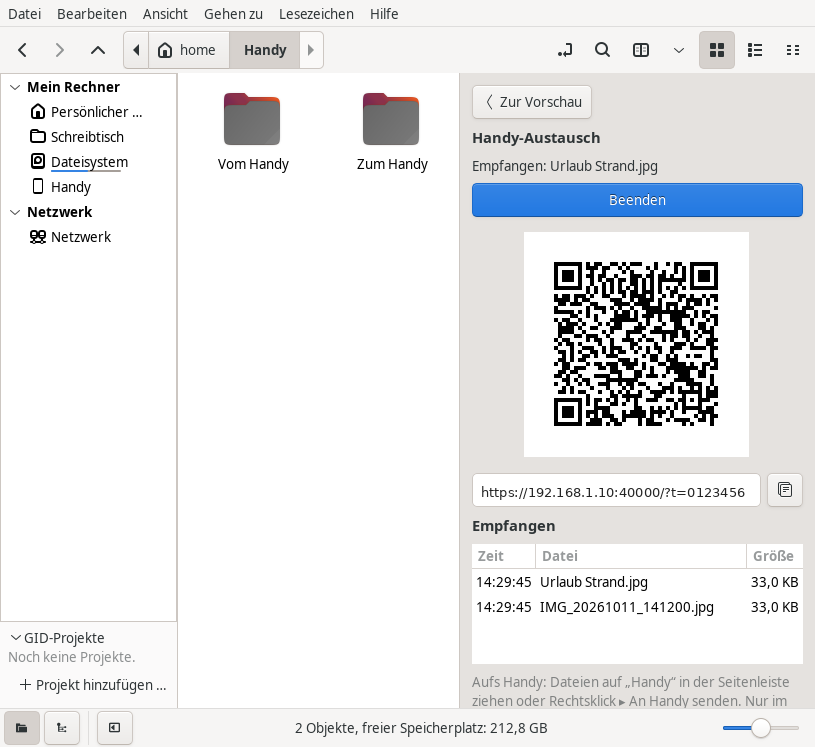
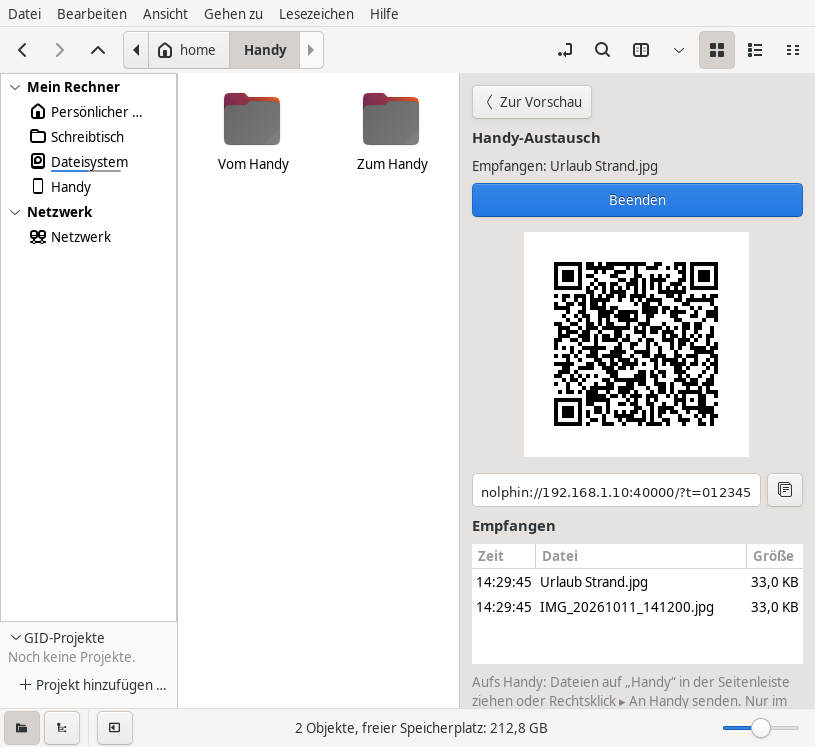
Handy-Austausch: QR-Link als nolphin://, Bild und Tests angepasst

Changed region(s): [[0.6748, 0.3387, 0.8896, 0.585], [0.5828, 0.6466, 0.9202, 0.6774]]

diff --git a/src/nolphin-phone.c b/src/nolphin-phone.c
@@ -496,15 +496,17 @@ on_file_received (const gchar *name, goffset size, gpointer user_data)
 }
 
 /* Verbindungslink, Format Version 2:
- *   https://<Adresse>:<Port>/?t=<Schlüssel, 32 Hex-Zeichen>&v=2&f=<Fingerabdruck, 22 Zeichen base64url>
- * Er steht im QR-Code und im Eingabefeld (siehe docs/handy-austausch-api.md). Der Ablauf (e=) steht nicht
- * mehr im Link: Er würde den QR-Code über die größte darstellbare Größe treiben, und der Server prüft ihn ohnehin. */
+ *   nolphin://<Adresse>:<Port>/?t=<Schlüssel, 32 Hex-Zeichen>&v=2&f=<Fingerabdruck, 22 Zeichen base64url>
+ * Er steht im QR-Code und im Eingabefeld (siehe docs/handy-austausch-api.md). Mit dem Schema nolphin:// öffnet die
+ * Kamera des Handys direkt die App (kein Browser, keine Zertifikatswarnung); die App verbindet sich dann verschlüsselt
+ * über https mit genau dem Zertifikat dieses Fingerabdrucks. Der Ablauf (e=) steht nicht mehr im Link: Er würde den
+ * QR-Code über die größte darstellbare Größe treiben, und der Server prüft ihn ohnehin. */
 static void
 phone_refresh_url (PhonePage *d)
 {
 	gchar *token = nolphin_phone_server_dup_token (d->server);
 	gchar *fp = nolphin_phone_server_dup_fingerprint (d->server);
-	gchar *url = g_strdup_printf ("https://%s:%u/?t=%s&v=2&f=%s", d->address,
+	gchar *url = g_strdup_printf ("nolphin://%s:%u/?t=%s&v=2&f=%s", d->address,
 				      nolphin_phone_server_get_port (d->server), token, fp);
 
 	d->has_qr = nolphin_qr_encode (url, -1, &d->qr);
@@ -567,7 +569,7 @@ phone_start (PhonePage *d)
 	session_save (d->address, d->server);
 	phone_refresh_url (d);
 	gtk_label_set_text (GTK_LABEL (d->status),
-			    d->has_qr ? _("Läuft, verschlüsselt. In der Handy-App „QR-Code scannen“ wählen und diesen Code scannen (gleiches WLAN).")
+			    d->has_qr ? _("Läuft, verschlüsselt. QR-Code mit der Handy-Kamera oder in der Handy-App („QR-Code scannen“) scannen (gleiches WLAN).")
 				      : _("Läuft, verschlüsselt. Ein QR-Code ist nicht möglich: Kopiere den Link in die Handy-App."));
 	d->timeout_id = g_timeout_add_seconds (30, on_idle_check, d);
 	phone_update_ui (d);

diff --git a/test/test-nolphin-phone-server.c b/test/test-nolphin-phone-server.c
@@ -232,10 +232,10 @@ test_qr (void)
 	       "qr: Suchmuster in den anderen Ecken");
 	check (nolphin_qr_encode ("http://192.168.178.20:45678/?t=0123456789abcdef0123456789abcdef", -1, &qr) && qr.size == 37,
 	       "qr: Verbindungslink ergibt Version 5");
-	check (nolphin_qr_encode ("https://192.168.178.255:65535/?t=0123456789abcdef0123456789abcdef&v=2&f=QULDtffIw8Ed6DmETVJ7zA", -1, &qr)
-	       && qr.size == 41, "qr: längster Verbindungslink (Version 2, 94 Zeichen) passt in Version 6");
-	check (!nolphin_qr_encode ("https://192.168.178.255:65535/?t=0123456789abcdef0123456789abcdef&v=2&f=QULDtffIw8Ed6DmETVJ7zA&e=1791769130", -1, &qr),
-	       "qr: mit Ablaufzeit (107 Zeichen) wäre der Link zu lang");
+	check (nolphin_qr_encode ("nolphin://192.168.178.255:65535/?t=0123456789abcdef0123456789abcdef&v=2&f=QULDtffIw8Ed6DmETVJ7zA", -1, &qr)
+	       && qr.size == 41, "qr: längster Verbindungslink (nolphin://, Version 2, 96 Zeichen) passt in Version 6");
+	check (!nolphin_qr_encode ("nolphin://192.168.178.255:65535/?t=0123456789abcdef0123456789abcdef&v=2&f=QULDtffIw8Ed6DmETVJ7zA&e=1791769130", -1, &qr),
+	       "qr: mit Ablaufzeit (109 Zeichen) wäre der Link zu lang");
 	check (!nolphin_qr_encode (big, -1, &qr), "qr: zu langer Text wird abgelehnt");
 	g_free (big);
 }
